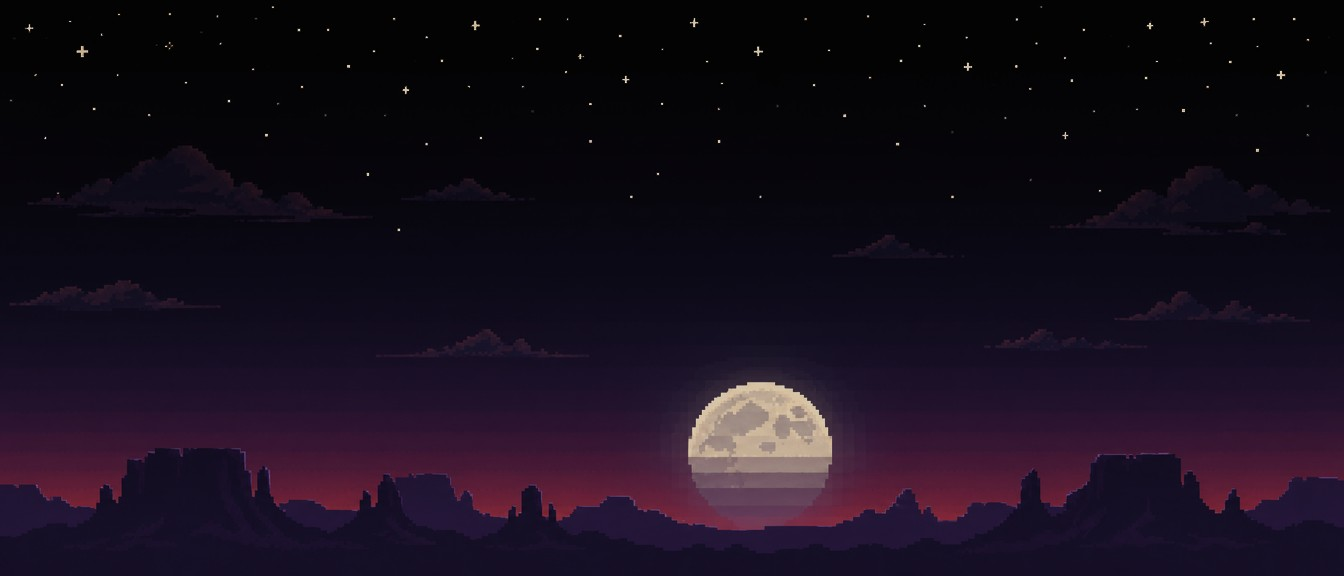
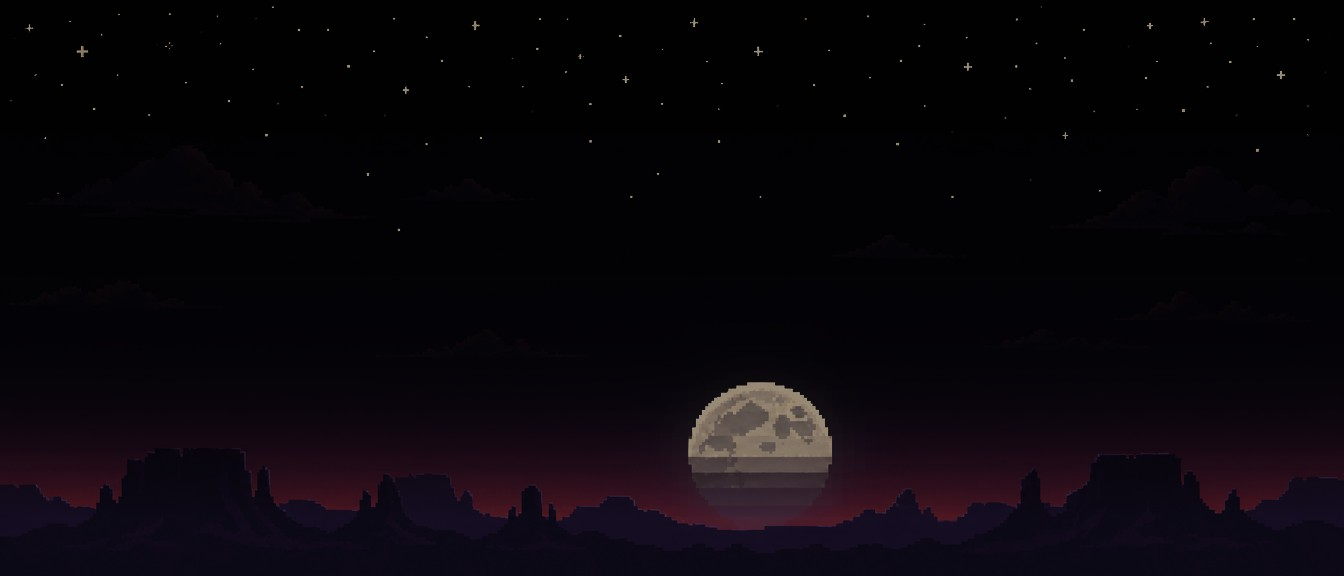
Maher Runner: fall to the ground on a mid-air hit, darker night sky
Claude-Session: https://claude.ai/code/session_01QuALgMiGeqhA5QUA952cHZ

diff --git a/public/runner/runner.js b/public/runner/runner.js
@@ -328,6 +328,12 @@ export async function createRunner(canvas, opts = {}) {
     if (mode === 'countdown') { S.countdown -= dt; if (S.countdown <= 0) mode = 'playing'; return; }
     if (mode === 'dead') {
       S.deadT += dt;
+      const p = S.p;
+      if (p.y > 0 || p.vy > 0) {
+        // hit in the air: keep falling, the knee-down plays once he lands
+        p.vy = Math.min(p.vy, 0) - PHYS.gravityFall * dt; p.y += p.vy * dt;
+        if (p.y <= 0) { p.y = 0; p.vy = 0; p.land = 0.1; puff(S.camX + px0 + 13, 0, 8, '#e9b872', 80, 50, 0.4); }
+      } else S.downT = (S.downT || 0) + dt;
       S.speed = Math.max(0, S.speed - 1400 * dt); S.camX += S.speed * dt;
       updateParticles(dt); return;
     }
@@ -473,7 +479,8 @@ export async function createRunner(canvas, opts = {}) {
       return cyc > 4.6 ? { f: loop('wave', 8) } : { f: loop('idle', 3) };
     }
     if (mode === 'dead') {
-      const i = Math.min(4, Math.floor(S.deadT * 10));
+      if (S.p.y > 0) return { f: an.jump[3] }; // still falling
+      const i = Math.min(4, Math.floor((S.downT || 0) * 10));
       return { f: an.failed[i] };
     }
     if (p.ducking) return { f: an.duck[0] };
